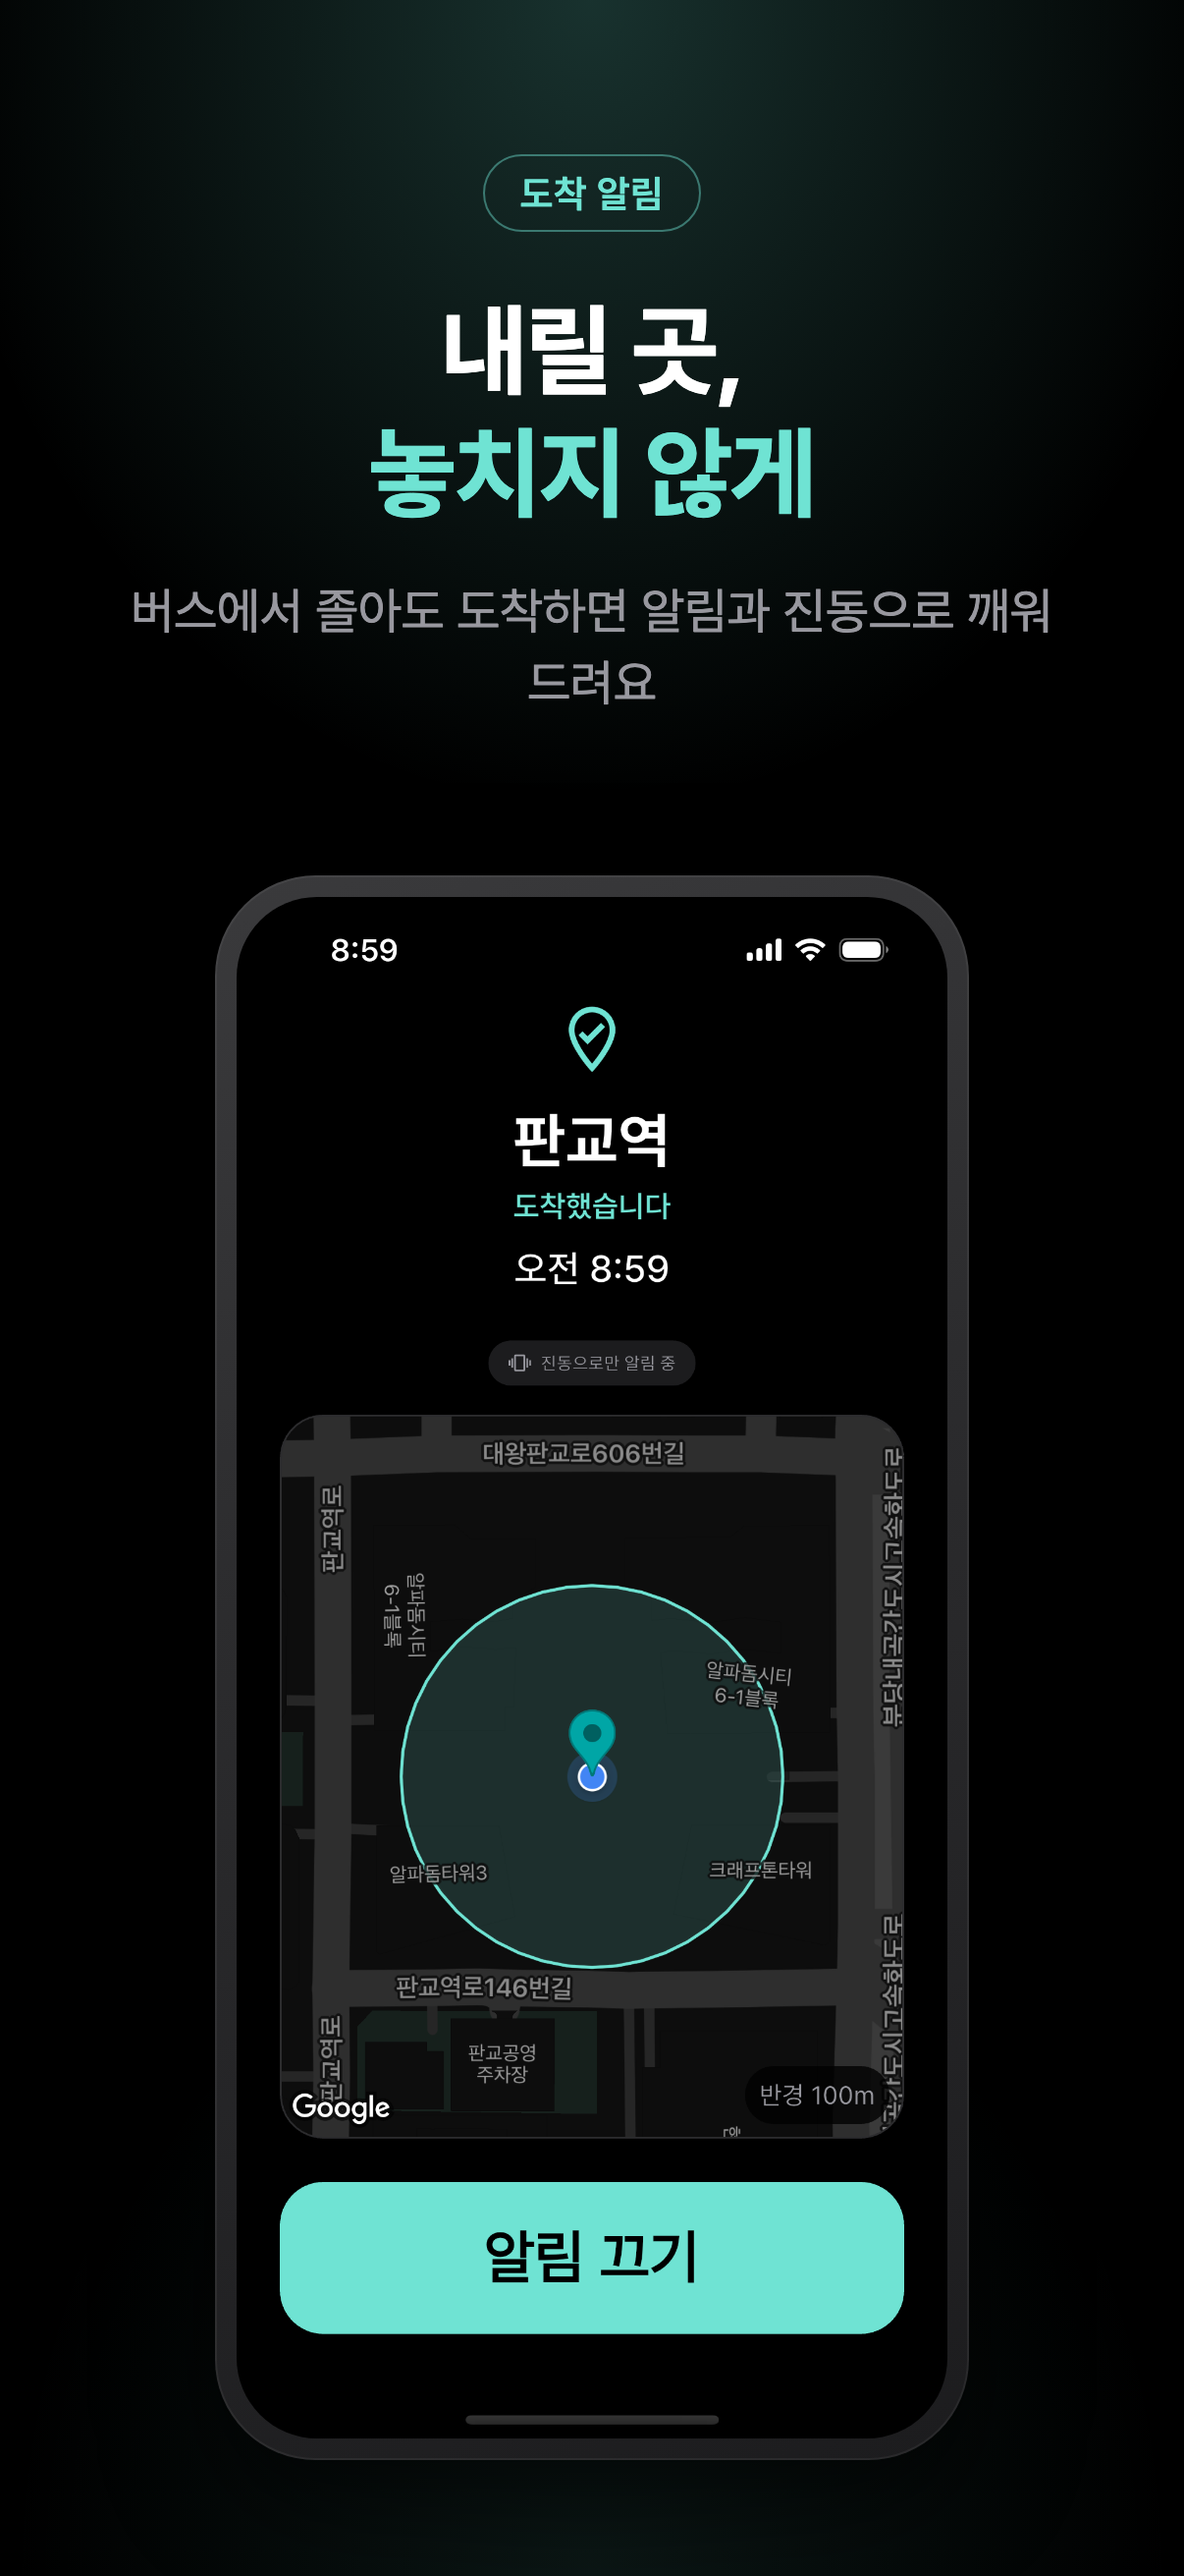
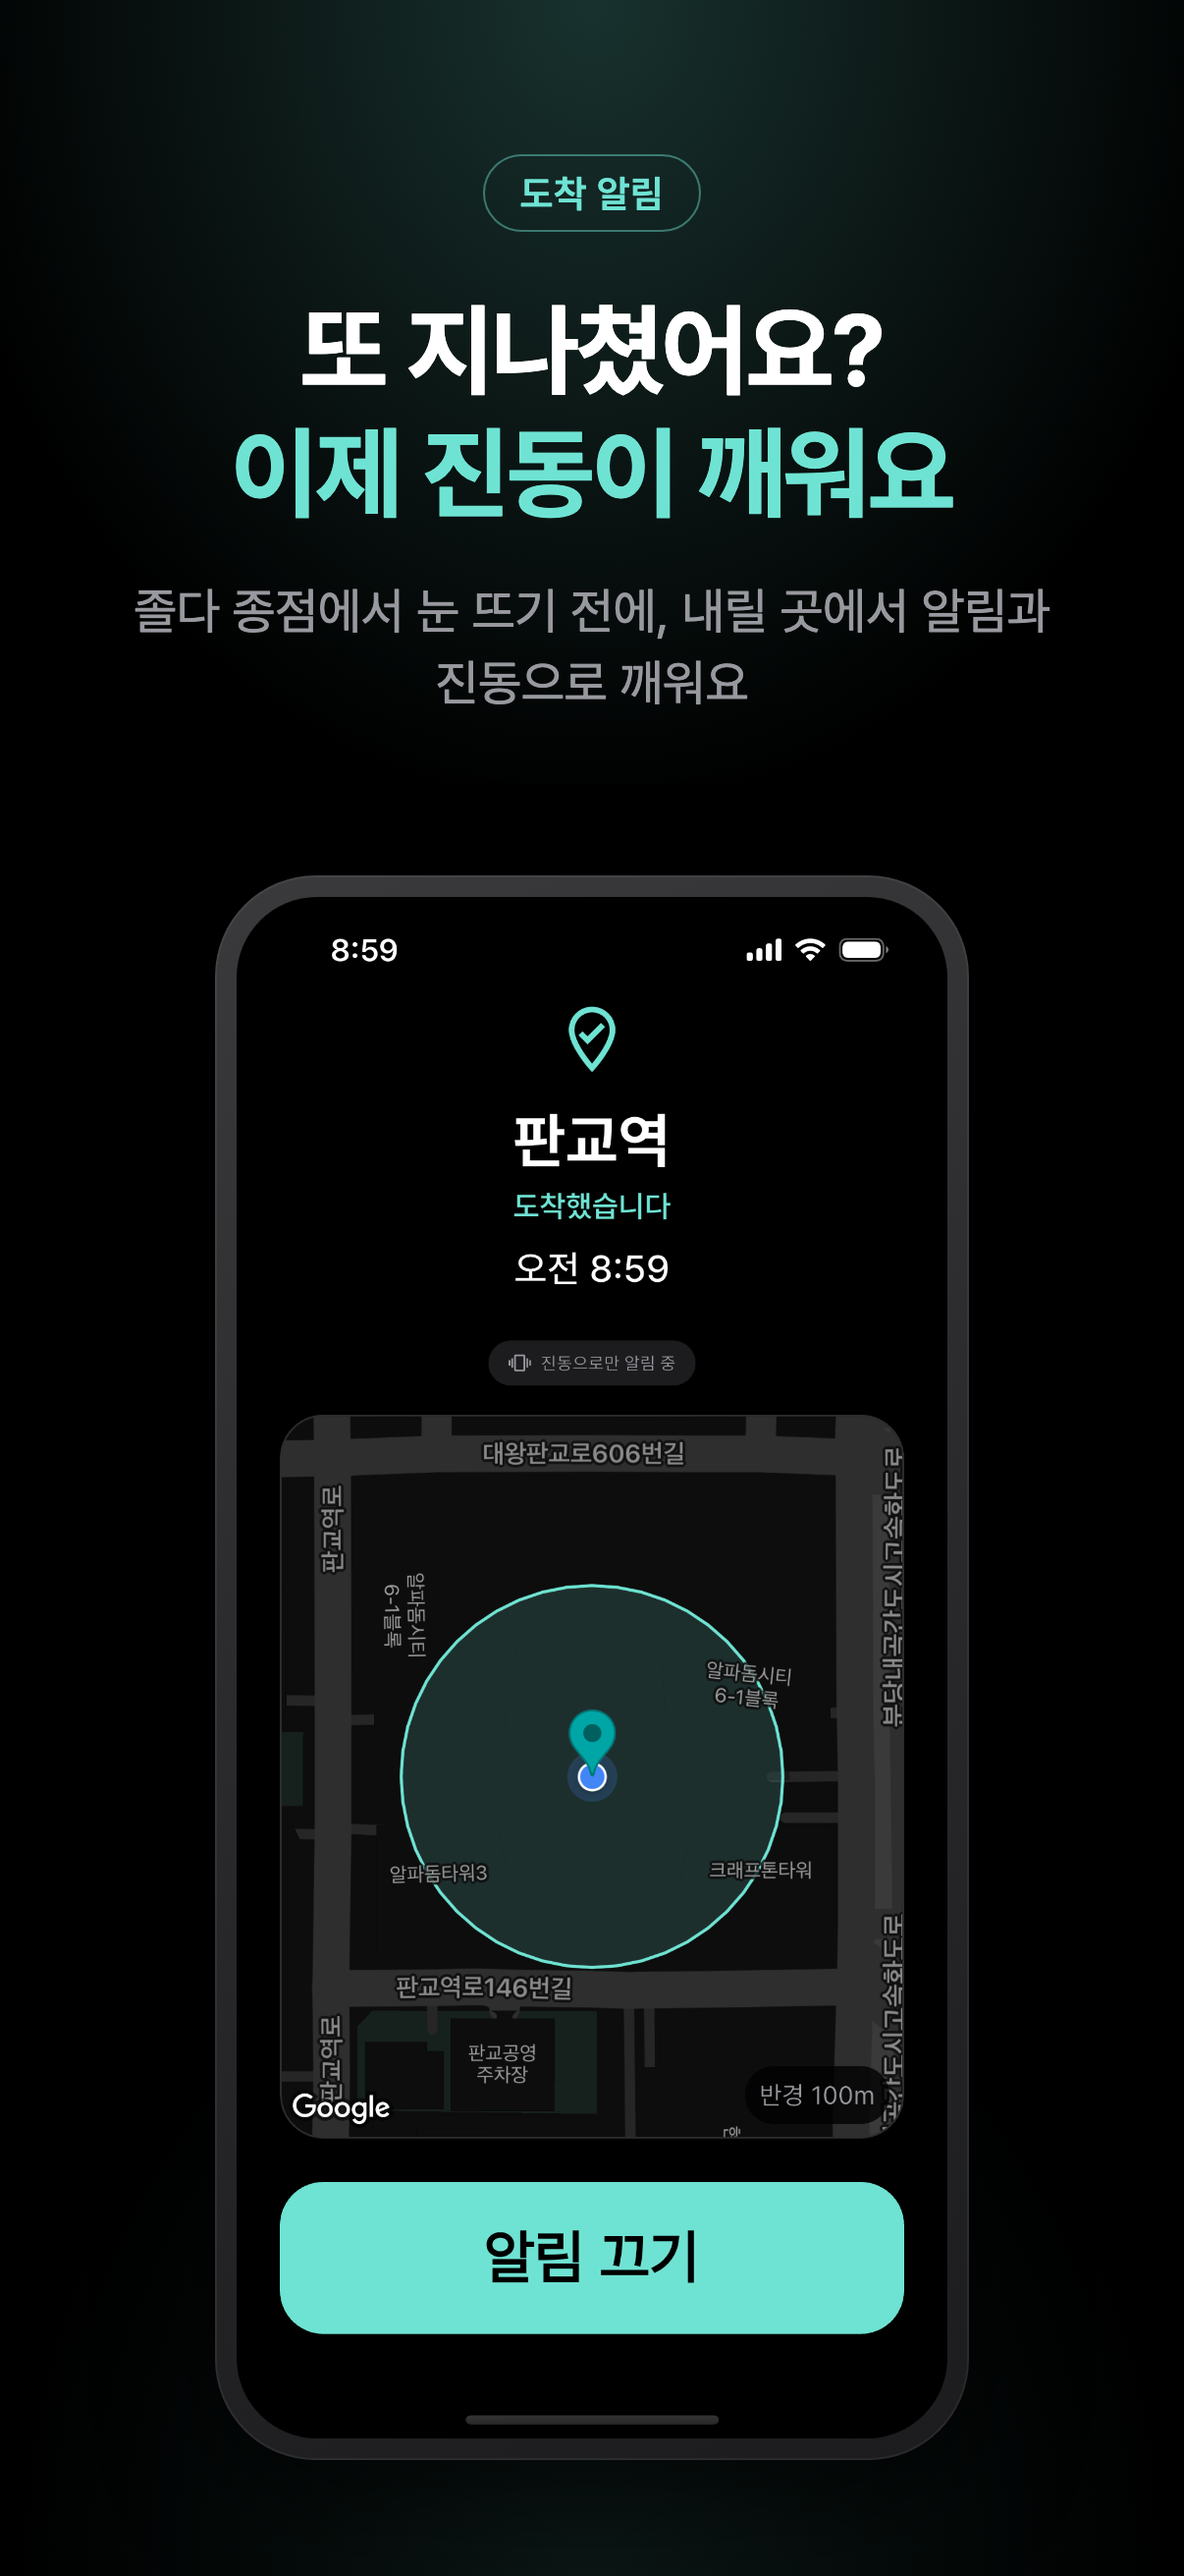
한국어 등록정보 검색 노출과 전환 개선, 사실과 다른 문구 정정 : feat : 앱 이름과 부제목, 키워드, 설명, 첫 스크린샷에 하차, 도착, 장소 검색어와 종점 문구를 넣고, 꺼 둔 잠금화면 알람과 프로 조건 없는 기능 소개, 서버 미전송, 배터리 표현을 지금 동작에 맞게 고치며 순위 기준선과 전략 문서를 더한다 https://github.com/Cassiiopeia/EarLocAlert/issues/358

Changed region(s): [[0.092, 0.0927, 0.8897, 0.278]]

diff --git a/docs/store/aso-strategy.md b/docs/store/aso-strategy.md
@@ -1,0 +1,56 @@
+# 한국어 스토어 검색·전환 전략 (이슈 #358)
+
+**목표** — 이름을 모르는 사람이 "하차 알림", "도착 알림", "장소 알림"으로 찾아 설치하게 한다.
+
+## 기준선 (2026-11-07, 한국, 비로그인)
+
+iTunes Search API 와 Play 웹 검색 결과로 쟀다. 기기 앱의 개인화 순위와 다를 수 있다. Play 는 결과가 최대 50개만 보여 "밖"은 정확한 순위가 아니다.
+
+| 검색어 | App Store | Google Play |
+|---|---|---|
+| 이어폰 위치 알림 | 1 | 1 |
+| 이어폰 장소 알림 | 결과 없음 | 2 |
+| 이어폰 알림 | 19 | 밖 |
+| 위치 알림 | 71 | 밖 |
+| 위치 알람 | 41 | 밖 |
+| 장소 알림 | 밖 | 밖 |
+| 위치 장소 알림 | 밖 | 밖 |
+| 도착 알림 | 42 | 밖 |
+| 도착 알람 | 55 | 밖 |
+| 하차 알림 | 30 | 밖 |
+| 버스 하차 알림 | 30 | 밖 |
+| 지하철 하차 알림 | 32 | 밖 |
+
+App Store 평가는 1건이다. 비교 앱 "이번정거장"은 824건이다.
+
+**다음 측정** — 스토어 반영 2주 뒤 같은 검색어로 다시 잰다.
+
+## 전략
+
+1. **검색어는 이름과 첫 줄에 둔다.** 앱 이름에 버스, 지하철, 하차, 알람을, App Store 부제목에 도착, 장소를 넣는다. App Store 키워드는 이름·부제목에 있는 단어를 반복하지 않는다.
+2. **첫 문장은 아픈 순간으로 연다.** "졸다 종점에서 눈 뜬 적 있죠?" 첫 스크린샷도 같은 말을 한다.
+3. **차이는 한 가지만 민다.** 소리가 이어폰으로만 나고 스피커로 새지 않는다.
+4. **평가 수를 늘린다.** 도착 알림을 끈 직후처럼 앱이 도움이 된 순간에 평가를 요청하는지 확인한다.
+
+## 문구에 쓰지 않는 것
+
+- 동작 보장: "절대 안 놓친다", "100%". 지하 구간과 iOS 앱 종료 뒤에는 늦거나 오지 않을 수 있다.
+- 순위와 가격 판촉어: "1위", "최고", "무료". Play 메타데이터 정책 위반 소지가 있다.
+- 다른 앱 이름. App Store 키워드 거절 사유다.
+- 꺼 둔 기능과 프로 전용 기능을 조건 없이 소개하는 것.
+
+## 파일
+
+| 칸 | 제한 | 파일 |
+|---|---|---|
+| Play 앱 이름 | 30자 | `descriptions/ko-KR_title.txt` |
+| Play 간단한 설명 | 80자 | `descriptions/ko-KR_short.txt` |
+| Play 자세한 설명 | 4000자 | `descriptions/ko-KR_full.txt` |
+| App Store 이름 | 30자 | `descriptions/ios-ko-KR_name.txt` |
+| App Store 부제목 | 30자 | `descriptions/ios-ko-KR_subtitle.txt` |
+| App Store 키워드 | 100자 | `descriptions/ios-ko-KR_keywords.txt` |
+| App Store 프로모션 텍스트 | 170자 | `descriptions/ios-ko-KR_promo.txt` |
+| App Store 설명 | 4000자 | `descriptions/ios-ko-KR_full.txt` |
+| 첫 스크린샷 문구 | | `tool/store_art/scenes.json` 01번 |
+
+런처에 보이는 앱 이름은 그대로 `이어폰위치알림` 이다.

diff --git a/docs/store/README.md b/docs/store/README.md
@@ -45,3 +45,7 @@ Android 와 iOS 는 알림이 다르게 동작하므로 설명문을 나눈다.
 
 - 간단한 설명(Play) 80자: `ko-KR_short.txt`, 프로모션 텍스트(App Store) 170자: `ios-ko-KR_promo.txt`
 - 스크린샷은 `screenshots/ko-KR/` (Android 에뮬레이터). iOS 스크린샷은 iOS 시뮬레이터에서 따로 찍는다
+
+## 검색 노출과 전환 (이슈 #358)
+
+칸별 파일, 글자 제한, 순위 기준선, 쓰지 않는 문구는 `aso-strategy.md` 에 있다.
